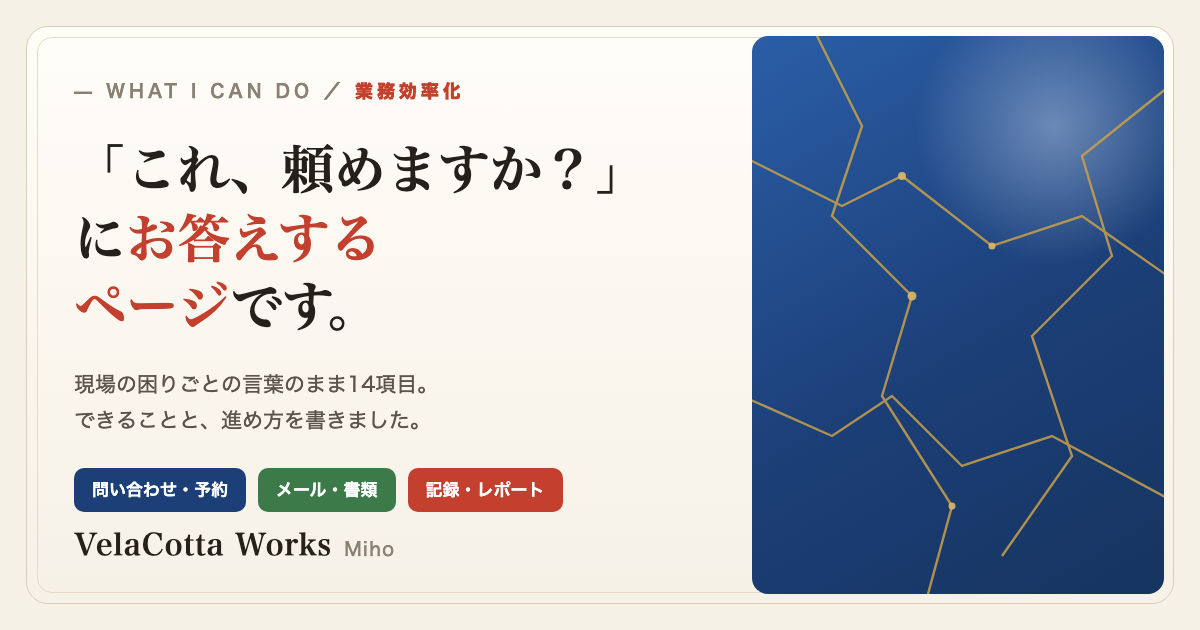
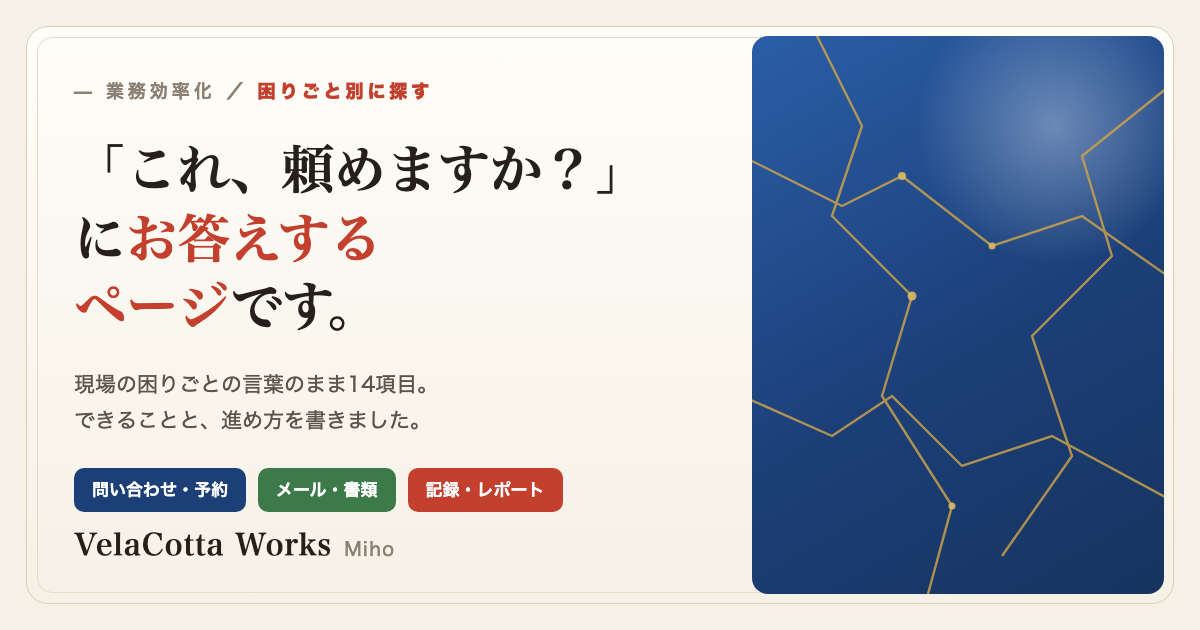
「できること一覧」を「困りごと別に探す」に改名
トップのナビで「できること」と「できること一覧」が並んで紛らわしかったため。
ページ側のタイトル・OGP・見出し・ページ内ナビも同じ名前に揃え、OGP画像も作り直した。

Changed region(s): [[0.0925, 0.1206, 0.4008, 0.181]]

diff --git a/can-do/index.html b/can-do/index.html
@@ -3,20 +3,20 @@
 <head>
 <meta charset="UTF-8">
 <meta name="viewport" content="width=device-width, initial-scale=1.0">
-<title>業務効率化でできること一覧 ｜ Miho / VelaCotta Works</title>
+<title>困りごと別に探す ｜ 業務効率化でできること ｜ Miho / VelaCotta Works</title>
 <meta name="description" content="「こういうことは頼めますか？」にお答えするページです。問い合わせ対応・予約受付・メール・書類の転記・議事録・レポート集計など、現場の困りごと別に、できることと進め方をまとめました。">
 <meta property="og:type" content="website">
 <meta property="og:url" content="https://velacotta-works.github.io/can-do/">
 <meta property="og:site_name" content="VelaCotta Works">
 <meta property="og:locale" content="ja_JP">
-<meta property="og:title" content="業務効率化でできること一覧 ｜ Miho / VelaCotta Works">
+<meta property="og:title" content="困りごと別に探す ｜ 業務効率化でできること ｜ Miho / VelaCotta Works">
 <meta property="og:description" content="困りごと別に「できること」と「進め方」をまとめました。新しいツールを増やす前に、いま使っているもので減らせないかから考えます。">
 <meta property="og:image" content="https://velacotta-works.github.io/can-do/ogp.png">
-<meta property="og:image:alt" content="業務効率化でできること一覧 — 「これ、頼めますか？」にお答えするページです。VelaCotta Works / Miho">
+<meta property="og:image:alt" content="困りごと別に探す — 「これ、頼めますか？」にお答えするページです。VelaCotta Works / Miho">
 <meta property="og:image:width" content="1200">
 <meta property="og:image:height" content="630">
 <meta name="twitter:card" content="summary_large_image">
-<meta name="twitter:title" content="業務効率化でできること一覧 ｜ Miho / VelaCotta Works">
+<meta name="twitter:title" content="困りごと別に探す ｜ 業務効率化でできること ｜ Miho / VelaCotta Works">
 <meta name="twitter:description" content="困りごと別に「できること」と「進め方」をまとめました。">
 <meta name="twitter:image" content="https://velacotta-works.github.io/can-do/ogp.png">
 <link rel="preconnect" href="https://fonts.googleapis.com">
@@ -223,7 +223,7 @@ footer{
   <nav>
     <span class="links">
       <a href="https://velacotta-works.github.io/">プロフィール</a>
-      <a href="#list">できること一覧</a>
+      <a href="#list">困りごと別に探す</a>
       <a href="#detail">それぞれの説明</a>
       <a href="#jisseki">実際に出した結果</a>
     </span>
@@ -256,7 +256,7 @@ footer{
   <section class="block" id="list">
     <div class="block-head">
       <span class="kicker">01 &nbsp;LIST</span>
-      <h2>できること一覧</h2>
+      <h2>困りごと別に探す</h2>
       <p>左が「よく聞く困りごと」、右が「できること」です。行をクリックすると、下の詳しい説明に移動します。</p>
     </div>
 

diff --git a/en/index.html b/en/index.html
@@ -347,7 +347,7 @@
       <span class="links">
         <a href="#about" data-i18n="nav.about">プロフィール</a>
         <a href="#services" data-i18n="nav.services">できること</a>
-        <a href="/can-do/" class="nav-cando">できること一覧</a>
+        <a href="/can-do/" class="nav-cando">困りごと別に探す</a>
         <a href="#ventures" data-i18n="nav.ventures">業務効率化の実績</a>
       </span>
       <a href="#contact" class="cta" data-i18n="nav.contact">お問い合わせ</a>

diff --git a/index.html b/index.html
@@ -347,7 +347,7 @@
       <span class="links">
         <a href="#about" data-i18n="nav.about">プロフィール</a>
         <a href="#services" data-i18n="nav.services">できること</a>
-        <a href="/can-do/" class="nav-cando">できること一覧</a>
+        <a href="/can-do/" class="nav-cando">困りごと別に探す</a>
         <a href="#ventures" data-i18n="nav.ventures">業務効率化の実績</a>
       </span>
       <a href="#contact" class="cta" data-i18n="nav.contact">お問い合わせ</a>
